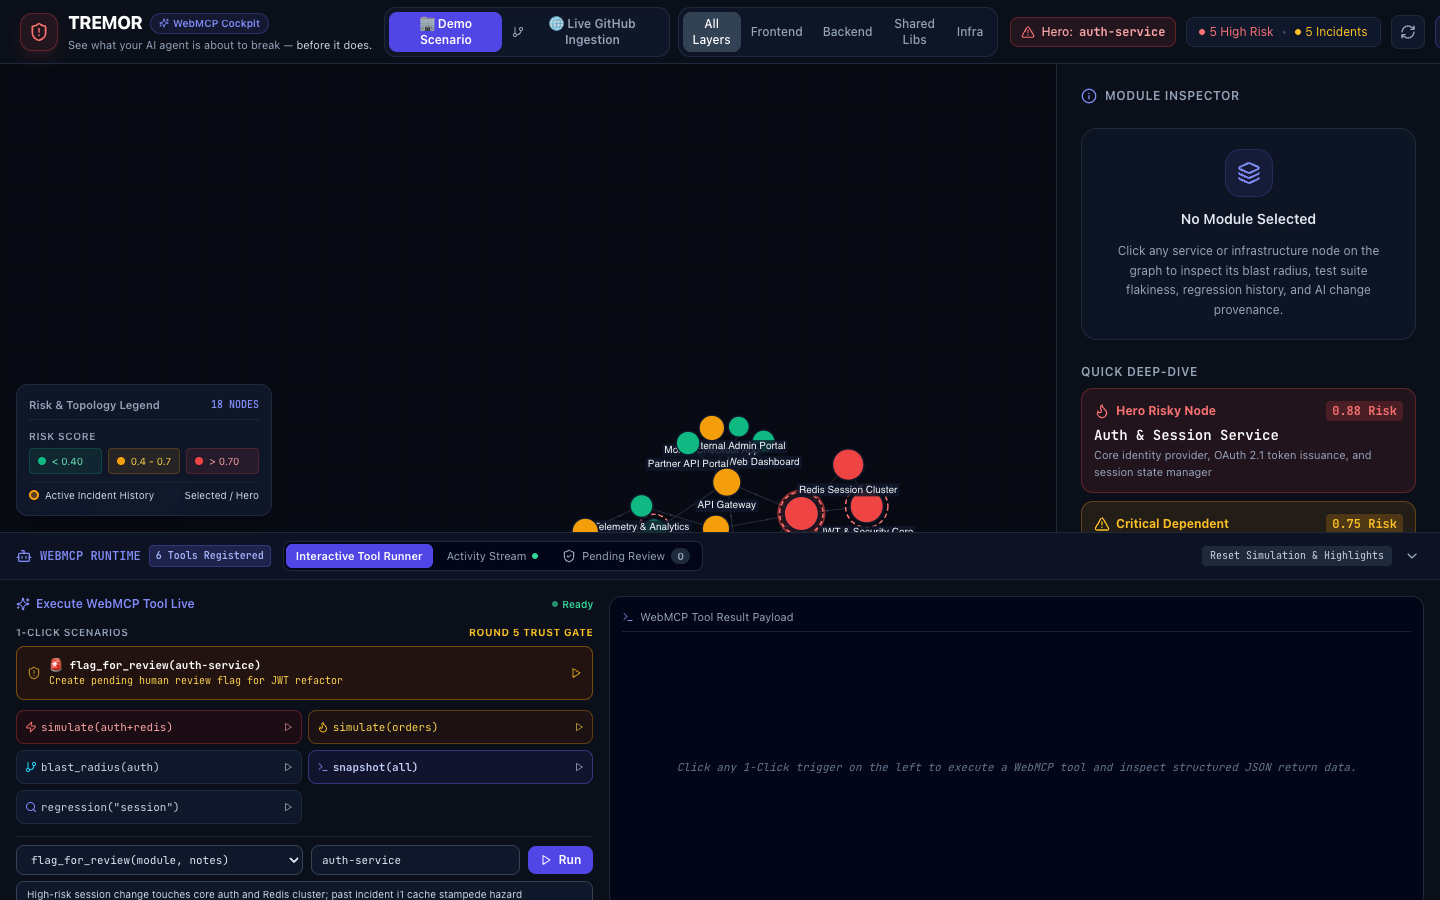
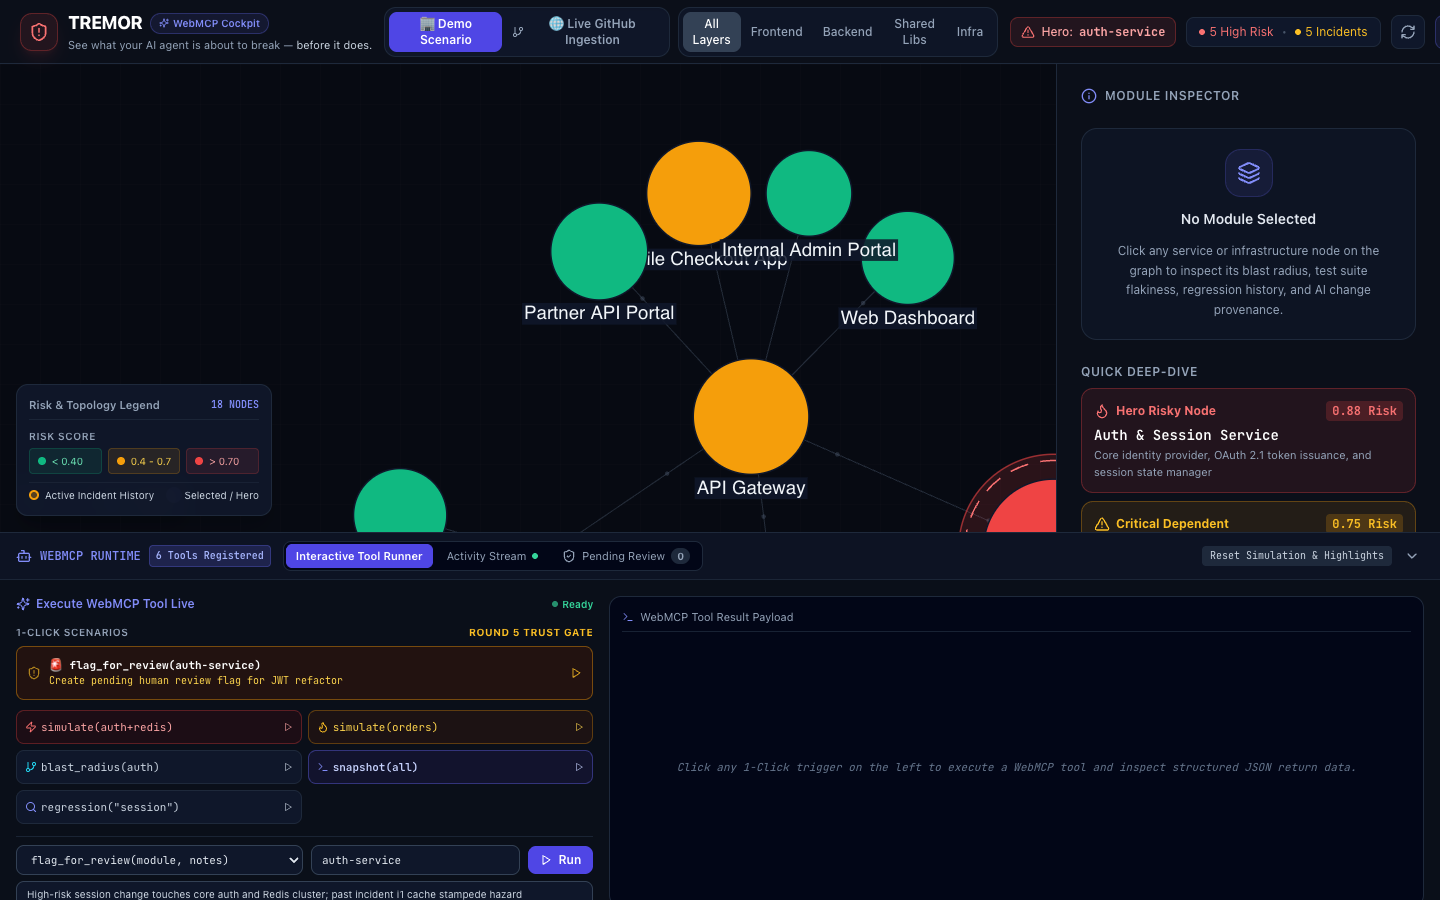
docs: reconcile Known Limitations, dynamic legend count, and auto zoom-to-fit

diff --git a/src/components/GraphLegend.tsx b/src/components/GraphLegend.tsx
@@ -1,11 +1,15 @@
 import React from 'react';
 
-export const GraphLegend: React.FC = () => {
+interface GraphLegendProps {
+  nodeCount?: number;
+}
+
+export const GraphLegend: React.FC<GraphLegendProps> = ({ nodeCount = 18 }) => {
   return (
     <div className="absolute bottom-4 left-4 z-20 bg-slate-900/90 backdrop-blur-md border border-slate-800 rounded-xl p-3 shadow-xl max-w-xs text-xs space-y-2 pointer-events-auto">
       <div className="flex items-center justify-between text-slate-400 border-b border-slate-800/80 pb-1.5 font-semibold text-[11px]">
         <span>Risk & Topology Legend</span>
-        <span className="text-[10px] text-indigo-400 font-mono">18 NODES</span>
+        <span className="text-[10px] text-indigo-400 font-mono">{nodeCount} NODES</span>
       </div>
 
       {/* Risk Color Scale */}

diff --git a/src/App.tsx b/src/App.tsx
@@ -196,7 +196,7 @@ export default function App() {
             </span>
           </div>
           <span className="text-cyan-400 font-mono text-[11px] shrink-0">
-            {liveIngestionResult?.statusMessage || 'Analyzing repository AST...'}
+            {liveIngestionResult?.statusMessage || 'Analyzing repository imports...'}
           </span>
         </div>
       )}
@@ -238,7 +238,7 @@ export default function App() {
             onSelectHeroNode={handleSelectHeroNode}
           />
           {/* Floating Graph Legend */}
-          <GraphLegend />
+          <GraphLegend nodeCount={activeDataset.nodes.length} />
         </main>
 
         {/* Right Sidebar: Selected Node Detail Panel & Simulation Breakdown */}

diff --git a/src/components/GraphCanvas.tsx b/src/components/GraphCanvas.tsx
@@ -81,13 +81,16 @@ export const GraphCanvas: React.FC<GraphCanvasProps> = ({
     }
   }, [selectedNode, simulation, graphData.nodes, dataset.nodes]);
 
-  // Set timeout to clear loading skeleton
+  // Set timeout to clear loading skeleton and auto-fit graph
   useEffect(() => {
     const timer = setTimeout(() => {
       setIsInitializing(false);
-    }, 600);
+      if (fgRef.current) {
+        fgRef.current.zoomToFit(600, 80);
+      }
+    }, 800);
     return () => clearTimeout(timer);
-  }, []);
+  }, [dataset.nodes.length]);
 
   // Zoom controls
   const handleZoomIn = () => {

diff --git a/README.md b/README.md
@@ -187,9 +187,14 @@ node scripts/regression-suite.mjs
 
 ## Known Limitations & What's Next
 
-TREMOR ships today with a curated, high-fidelity microservice topology and historical regression dataset representing an enterprise platform, alongside live GitHub commit telemetry for change provenance.
+TREMOR ships today with a dual-engine architecture: a curated enterprise demo scenario with historical incidents and flaky test suites, alongside live GitHub repository ingestion that extracts real file-to-file dependency edges via client-side regex parsing.
 
-To keep this initial release focused squarely on the WebMCP interaction model and in-browser human confirmation loop, full repository AST extraction was intentionally scoped out of the client. The immediate next step is integrating Tree-sitter-based static analysis and OpenTelemetry distributed trace ingestion, allowing TREMOR to dynamically map arbitrary codebases and production services in real time.
+To maintain a zero-backend, browser-native runtime within hackathon constraints, several technical trade-offs were made:
+
+1. **Regex-Based Import Extraction vs. Full AST Parsing:** Current live ingestion uses regex-based pattern matching to resolve ES module `import ... from` and CommonJS `require(...)` paths. While fast and zero-install, it does not construct a full compiler Abstract Syntax Tree (AST) or resolve complex dynamic runtime imports. The roadmap includes compiling Tree-sitter to WebAssembly for static-analysis-grade parsing directly in the browser thread.
+2. **File-Level vs. Symbol-Level Granularity:** Edges currently represent module-level dependencies rather than granular function-to-function call graphs or TypeScript type exports.
+3. **Language Scope:** Live import extraction is currently optimized for JavaScript and TypeScript projects with relative module paths. Full path resolution for Python virtual environments, Go workspace modules, and Rust crates is planned for future releases.
+4. **Static Topology vs. Runtime Traces:** Dependency maps reflect static source code imports; integrating OpenTelemetry distributed trace spans will enable weighting edges by real-time production RPC traffic volume.
 
 ---
 
